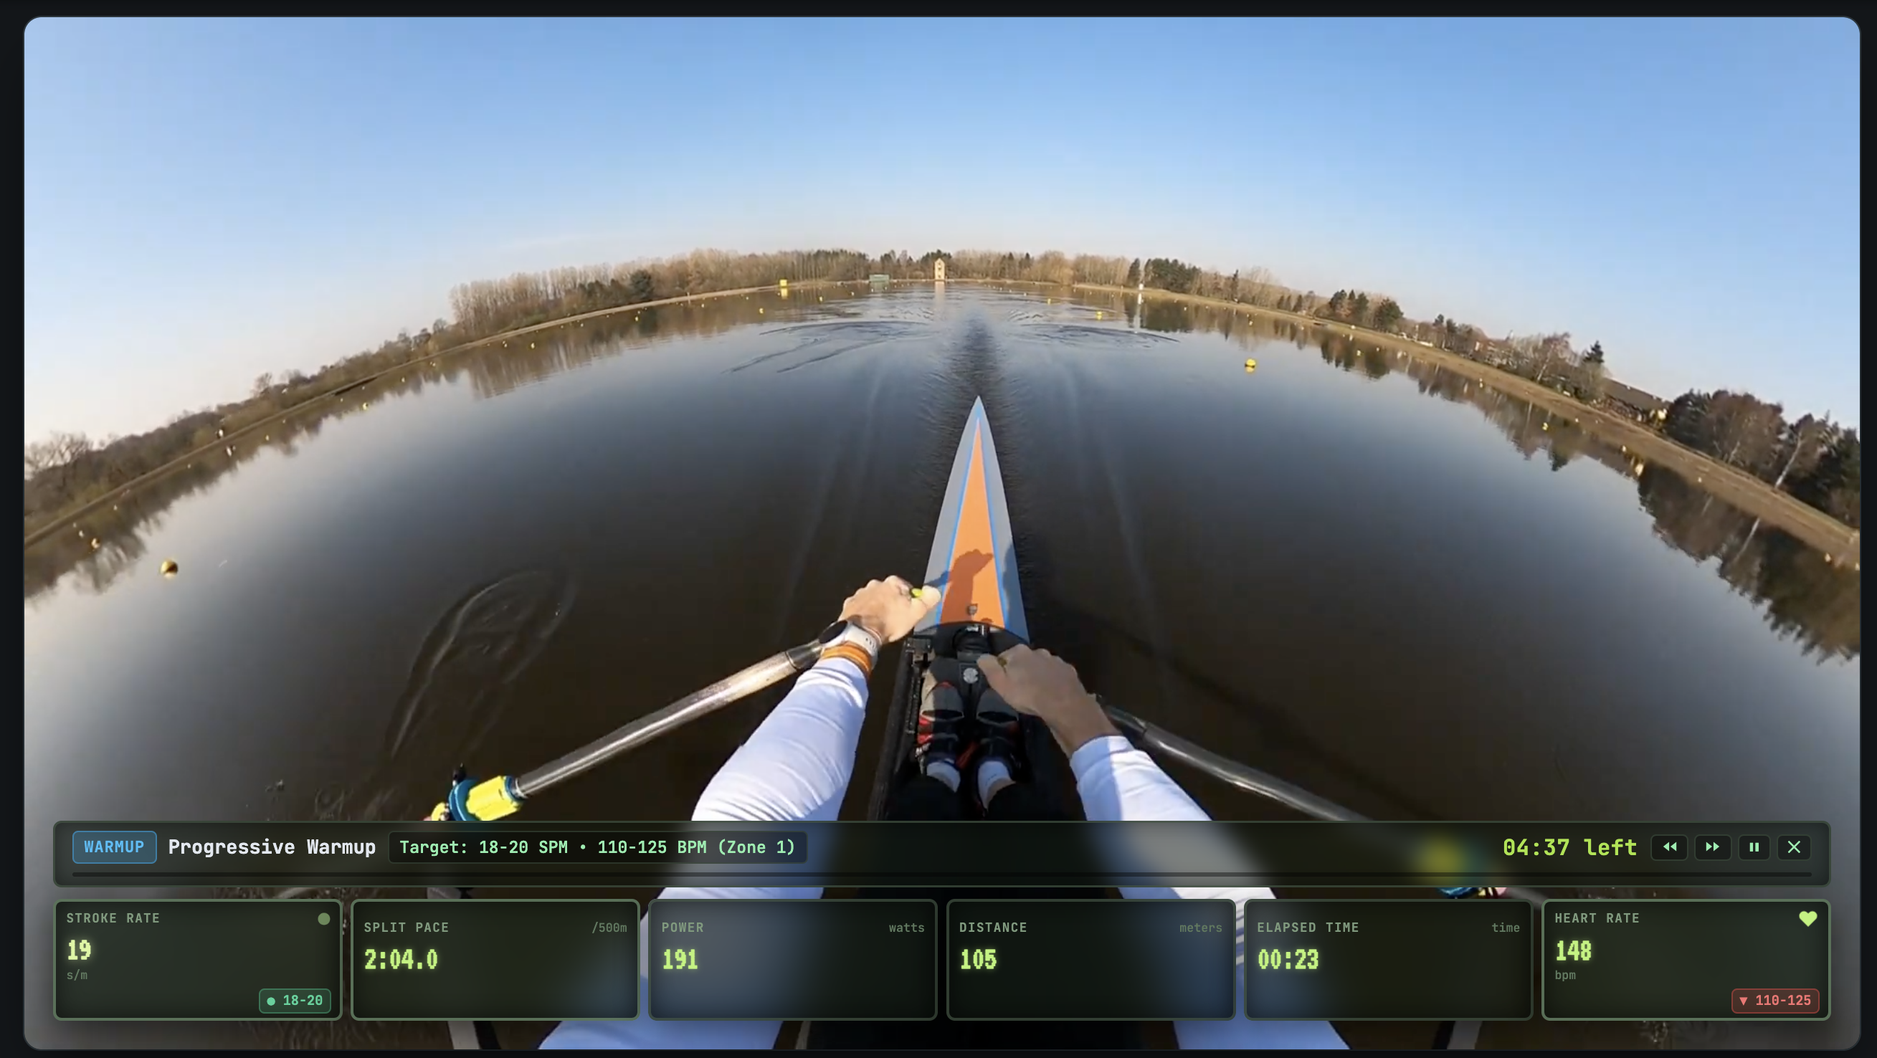
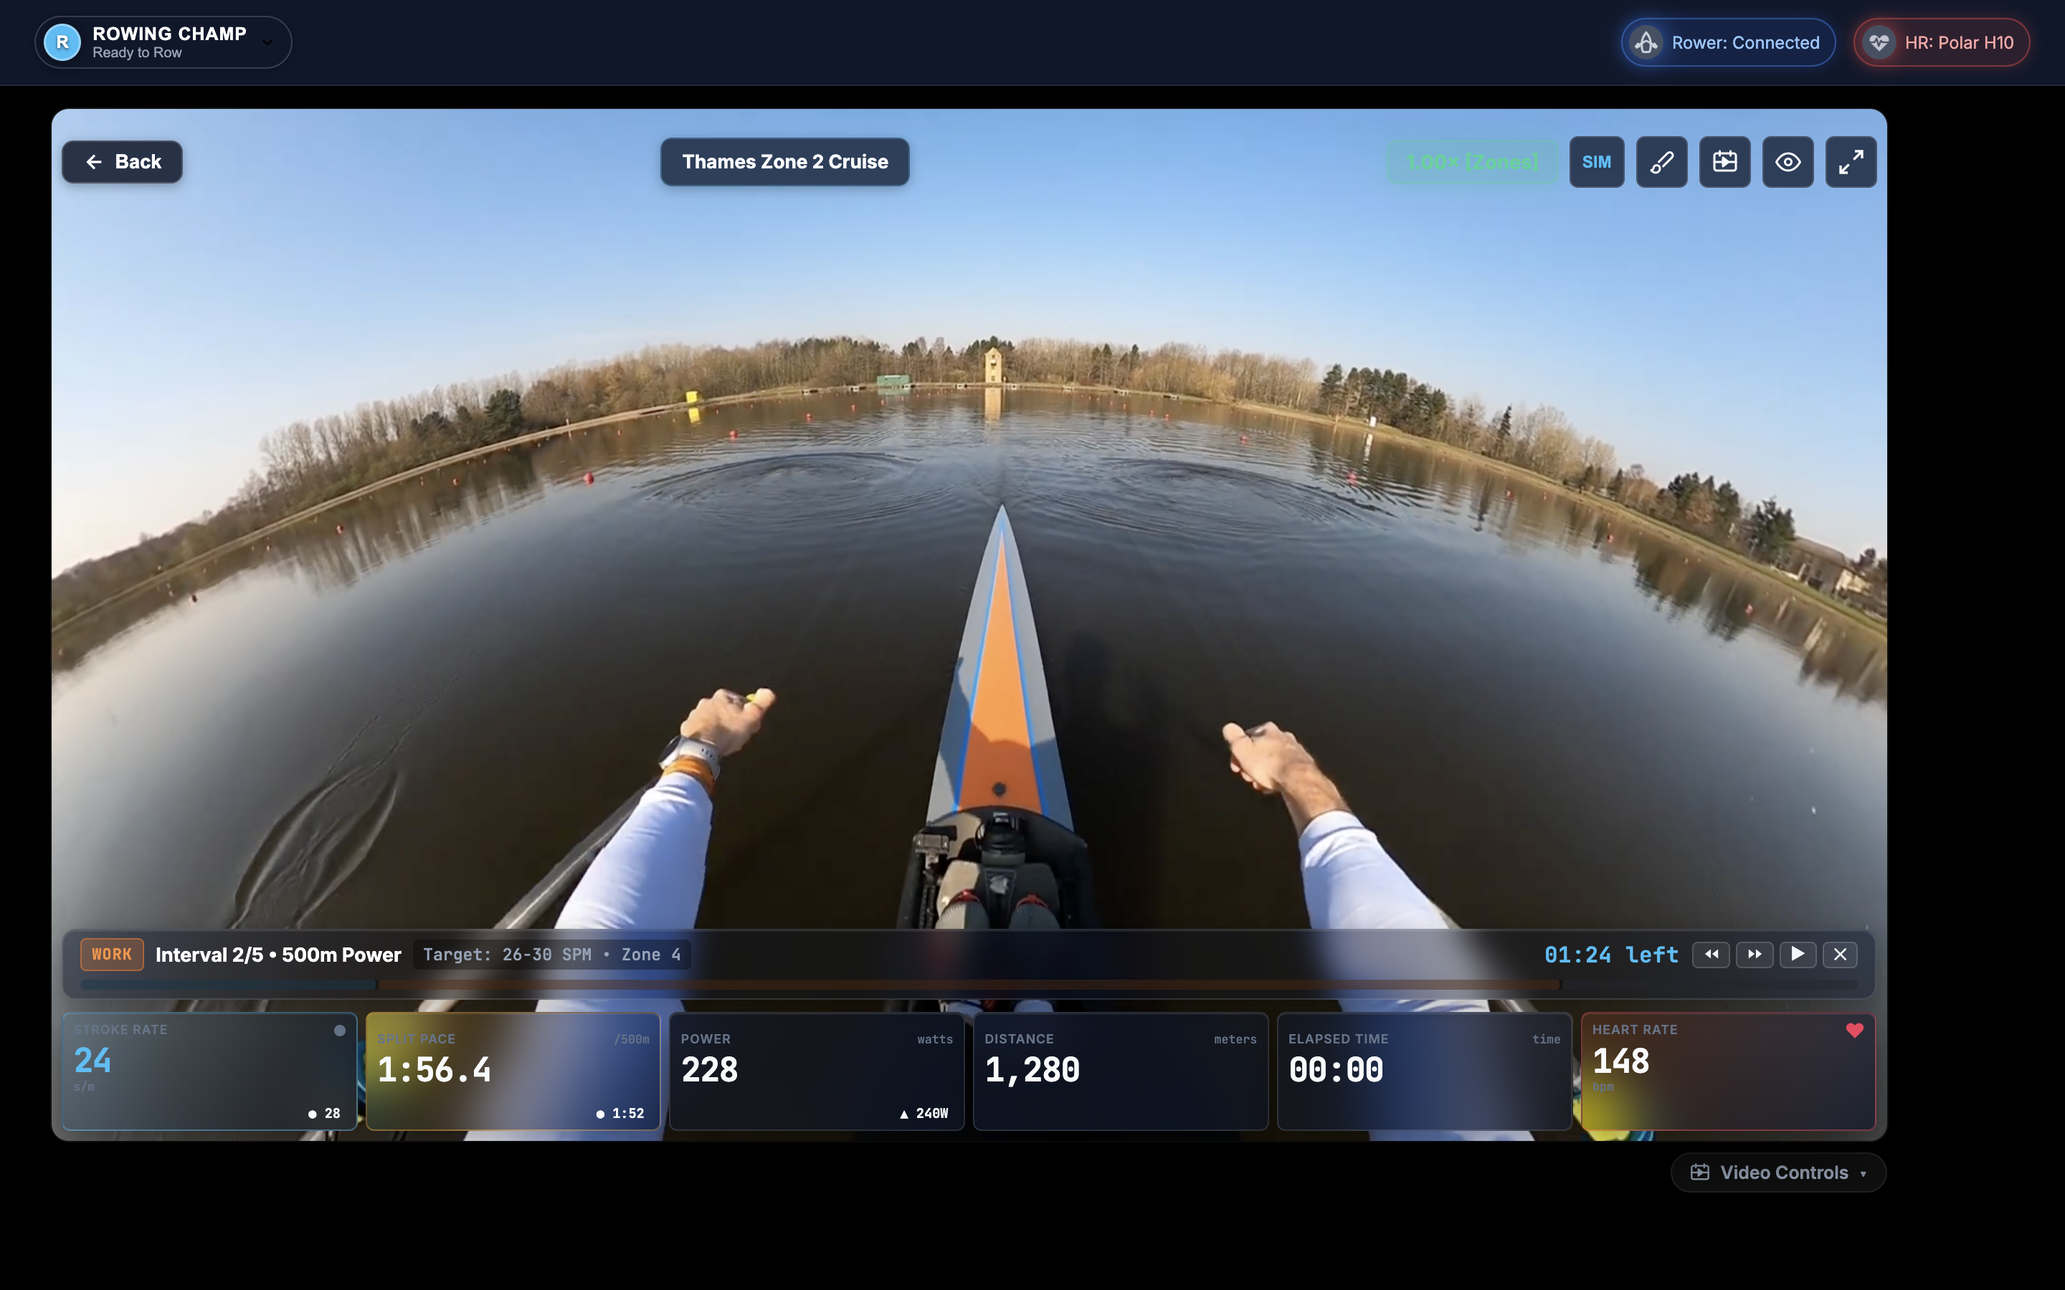
docs(readme): update screenshots for mobile-first ui overhaul, themes showcase, and responsive layouts

diff --git a/scripts/take_all_screenshots.py b/scripts/take_all_screenshots.py
@@ -1,0 +1,298 @@
+import asyncio
+import json
+import base64
+import os
+import httpx
+import websockets
+
+SCREENSHOT_DIR = "/Users/cfaber/repos/FTMS-rower/docs/screenshots"
+os.makedirs(SCREENSHOT_DIR, exist_ok=True)
+
+LIVE_COCKPIT_JS = """
+function applyLiveCockpitState(showWorkoutBar) {
+    // Hide all floating prompts and alerts
+    ['#audio-unmute-banner', '#hud-autopause-badge', '#workout-cue-toast', '.pm5-notice'].forEach(sel => {
+        document.querySelectorAll(sel).forEach(el => el.style.setProperty('display', 'none', 'important'));
+    });
+
+    // Populate realistic rowing telemetry
+    const spm = document.getElementById('hud-spm');
+    if (spm) spm.textContent = '24';
+    const split = document.getElementById('hud-split');
+    if (split) split.textContent = '1:56.4';
+    const watts = document.getElementById('hud-watts');
+    if (watts) watts.textContent = '228';
+    const dist = document.getElementById('hud-distance');
+    if (dist) dist.textContent = '1,280';
+    const time = document.getElementById('hud-elapsed');
+    if (time) time.textContent = '05:14';
+    const hr = document.getElementById('hud-hr');
+    if (hr) hr.textContent = '148';
+    
+    const hrPill = document.getElementById('hud-hr-zone-pill');
+    if (hrPill) hrPill.textContent = 'Z4 86%';
+    const hrBar = document.getElementById('hud-hr-zone-bar');
+    if (hrBar) hrBar.style.width = '86%';
+
+    // Activate connection badges with glowing pulse
+    const rBtn = document.getElementById('status-rower');
+    if (rBtn) {
+        rBtn.className = 'status-pill status-btn connected telemetry-pulse';
+        const rTxt = document.getElementById('status-rower-text');
+        if (rTxt) rTxt.textContent = 'Rower: Connected';
+    }
+    const hBtn = document.getElementById('status-hr');
+    if (hBtn) {
+        hBtn.className = 'status-pill status-btn connected telemetry-pulse';
+        const hTxt = document.getElementById('status-hr-text');
+        if (hTxt) hTxt.textContent = 'HR: Polar H10';
+    }
+
+    // Workout bar
+    const wb = document.getElementById('hud-workout-bar');
+    if (wb) {
+        wb.style.display = showWorkoutBar ? 'block' : 'none';
+        if (showWorkoutBar) {
+            const fill = document.getElementById('workout-progress-fill');
+            if (fill) fill.style.width = '42%';
+            const badge = document.getElementById('workout-step-badge');
+            if (badge) { badge.textContent = 'WORK'; badge.className = 'workout-type-badge work'; }
+            const title = document.getElementById('workout-step-title');
+            if (title) title.textContent = 'Interval 2/5 • 500m Power';
+            const summary = document.getElementById('workout-target-summary');
+            if (summary) summary.textContent = 'Target: 26-30 SPM • Zone 4';
+            const cd = document.getElementById('workout-step-countdown');
+            if (cd) cd.textContent = '01:24 left';
+
+            const tSpm = document.getElementById('hud-target-spm');
+            if (tSpm) { tSpm.style.display = 'inline-flex'; tSpm.textContent = '● 28'; tSpm.className = 'pm5-target-chip target-on'; }
+            const tWatts = document.getElementById('hud-target-watts');
+            if (tWatts) { tWatts.style.display = 'inline-flex'; tWatts.textContent = '▲ 240W'; tWatts.className = 'pm5-target-chip target-low'; }
+            const tSplit = document.getElementById('hud-target-split');
+            if (tSplit) { tSplit.style.display = 'inline-flex'; tSplit.textContent = '● 1:52'; tSplit.className = 'pm5-target-chip target-on'; }
+        } else {
+            // Hide targets in free row
+            ['#hud-target-spm', '#hud-target-watts', '#hud-target-split'].forEach(sel => {
+                const el = document.querySelector(sel);
+                if (el) el.style.display = 'none';
+            });
+        }
+    }
+}
+"""
+
+async def main():
+    async with httpx.AsyncClient() as client:
+        # Clean up any leftover localhost tabs
+        try:
+            tabs = (await client.get("http://127.0.0.1:9222/json/list")).json()
+            for t in tabs:
+                if "localhost:8000" in t.get("url", ""):
+                    await client.get(f"http://127.0.0.1:9222/json/close/{t['id']}")
+        except Exception as e:
+            print("Cleanup error:", e)
+
+        # Open ONE fresh tab
+        resp = await client.put("http://127.0.0.1:9222/json/new?http://localhost:8000")
+        target = resp.json()
+        target_id = target["id"]
+        ws_url = target["webSocketDebuggerUrl"]
+        print(f"Opened single tab {target_id}", flush=True)
+
+    try:
+        async with websockets.connect(ws_url, max_size=50_000_000) as ws:
+            msg_id = 1
+            async def send(method, params=None):
+                nonlocal msg_id
+                m_id = msg_id
+                msg_id += 1
+                await ws.send(json.dumps({"id": m_id, "method": method, "params": params or {}}))
+                while True:
+                    raw = await ws.recv()
+                    res = json.loads(raw)
+                    if res.get("id") == m_id:
+                        return res.get("result", {})
+
+            await send("Page.enable")
+            await send("Runtime.enable")
+            print("CDP connected, loading scripts...", flush=True)
+            await asyncio.sleep(2.5)
+
+            async def capture_to(filename):
+                ss = await send("Page.captureScreenshot", {"format": "png"})
+                img_data = base64.b64decode(ss["data"])
+                out_path = os.path.join(SCREENSHOT_DIR, filename)
+                with open(out_path, "wb") as f:
+                    f.write(img_data)
+                print(f"[OK] Saved {filename} ({len(img_data)} bytes)", flush=True)
+
+            # Inject helper
+            await send("Runtime.evaluate", {"expression": LIVE_COCKPIT_JS})
+
+            # ----------------------------------------------------
+            # 1. Athlete Home Page (Landscape)
+            # ----------------------------------------------------
+            print("Capturing 1. home-quick-workouts.png...", flush=True)
+            await send("Emulation.setDeviceMetricsOverride", {
+                "width": 1440, "height": 900, "deviceScaleFactor": 2, "mobile": False
+            })
+            await send("Runtime.evaluate", {
+                "expression": """
+                    document.documentElement.removeAttribute('data-theme');
+                    localStorage.setItem('ftms_hud_theme', 'default');
+                    const homeBtn = document.querySelector('[data-view="home"]');
+                    if (homeBtn) homeBtn.click();
+                    window.scrollTo(0, 0);
+                """
+            })
+            await asyncio.sleep(1.5)
+            await capture_to("home-quick-workouts.png")
+
+            # ----------------------------------------------------
+            # 2. Mobile Portrait Home Page
+            # ----------------------------------------------------
+            print("Capturing 2. mobile-portrait-home.png...", flush=True)
+            await send("Emulation.setDeviceMetricsOverride", {
+                "width": 390, "height": 844, "deviceScaleFactor": 2, "mobile": True
+            })
+            await send("Runtime.evaluate", {
+                "expression": "window.scrollTo(0, 0);"
+            })
+            await asyncio.sleep(1)
+            await capture_to("mobile-portrait-home.png")
+
+            # ----------------------------------------------------
+            # 3. Mobile Portrait Cockpit HUD (2x3 Grid with Live Row)
+            # ----------------------------------------------------
+            print("Capturing 3. mobile-portrait-cockpit.png...", flush=True)
+            await send("Runtime.evaluate", {
+                "expression": """
+                    const quickCard = document.querySelector(".btn-start-quick-card");
+                    if (quickCard) quickCard.click();
+                """
+            })
+            await asyncio.sleep(2.5)
+            await send("Runtime.evaluate", {
+                "expression": "applyLiveCockpitState(true);"
+            })
+            await asyncio.sleep(1)
+            await capture_to("mobile-portrait-cockpit.png")
+
+            # ----------------------------------------------------
+            # 4. Cockpit HUD - Modern Slate (Landscape Hero)
+            # ----------------------------------------------------
+            print("Capturing 4. cockpit-modern-slate.png (Landscape Hero)...", flush=True)
+            await send("Emulation.setDeviceMetricsOverride", {
+                "width": 1440, "height": 900, "deviceScaleFactor": 2, "mobile": False
+            })
+            await send("Runtime.evaluate", {
+                "expression": """
+                    document.documentElement.removeAttribute('data-theme');
+                    localStorage.setItem('ftms_hud_theme', 'default');
+                    applyLiveCockpitState(false);
+                """
+            })
+            await asyncio.sleep(1.5)
+            await capture_to("cockpit-modern-slate.png")
+
+            # ----------------------------------------------------
+            # 5. Cockpit HUD - Structured Program Workout Bar
+            # ----------------------------------------------------
+            print("Capturing 5. cockpit-workout-bar.png...", flush=True)
+            await send("Runtime.evaluate", {
+                "expression": "applyLiveCockpitState(true);"
+            })
+            await asyncio.sleep(1.5)
+            await capture_to("cockpit-workout-bar.png")
+
+            # ----------------------------------------------------
+            # 6. Themes Showcase in Cockpit
+            # ----------------------------------------------------
+            # (a) Nordic Minimalist
+            print("Capturing 6a. cockpit-nordic-minimalist.png...", flush=True)
+            await send("Runtime.evaluate", {
+                "expression": """
+                    document.documentElement.setAttribute('data-theme', 'nordic');
+                    localStorage.setItem('ftms_hud_theme', 'nordic');
+                    applyLiveCockpitState(true);
+                """
+            })
+            await asyncio.sleep(1.5)
+            await capture_to("cockpit-nordic-minimalist.png")
+
+            # (b) Neon Cyberpunk
+            print("Capturing 6b. cockpit-neon-cyberpunk.png...", flush=True)
+            await send("Runtime.evaluate", {
+                "expression": """
+                    document.documentElement.setAttribute('data-theme', 'cyberpunk');
+                    localStorage.setItem('ftms_hud_theme', 'cyberpunk');
+                    applyLiveCockpitState(true);
+                """
+            })
+            await asyncio.sleep(1.5)
+            await capture_to("cockpit-neon-cyberpunk.png")
+
+            # (c) Concept2 PM5 LCD
+            print("Capturing 6c. cockpit-concept2-pm5.png...", flush=True)
+            await send("Runtime.evaluate", {
+                "expression": """
+                    document.documentElement.setAttribute('data-theme', 'retro-pm5');
+                    localStorage.setItem('ftms_hud_theme', 'retro-pm5');
+                    applyLiveCockpitState(true);
+                """
+            })
+            await asyncio.sleep(1.5)
+            await capture_to("cockpit-concept2-pm5.png")
+
+            # Reset theme to default slate & pause video before leaving cockpit
+            await send("Runtime.evaluate", {
+                "expression": """
+                    document.documentElement.removeAttribute('data-theme');
+                    localStorage.setItem('ftms_hud_theme', 'default');
+                    const videoEl = document.getElementById("scenic-video");
+                    if (videoEl) videoEl.pause();
+                """
+            })
+            await asyncio.sleep(1)
+
+            # ----------------------------------------------------
+            # 7. Programs Library
+            # ----------------------------------------------------
+            print("Capturing 7. programs-library.png...", flush=True)
+            await send("Runtime.evaluate", {
+                "expression": """
+                    const progBtn = document.querySelector('[data-view="workouts"]');
+                    if (progBtn) progBtn.click();
+                    window.scrollTo(0, 0);
+                """
+            })
+            await asyncio.sleep(2)
+            await capture_to("programs-library.png")
+
+            # ----------------------------------------------------
+            # 8. Media Center & Tracks
+            # ----------------------------------------------------
+            print("Capturing 8. media-center-tracks.png...", flush=True)
+            await send("Runtime.evaluate", {
+                "expression": """
+                    const mediaBtn = document.querySelector('[data-view="media"]');
+                    if (mediaBtn) mediaBtn.click();
+                    window.scrollTo(0, 0);
+                """
+            })
+            await asyncio.sleep(2)
+            await capture_to("media-center-tracks.png")
+
+            print("All captures completed successfully!", flush=True)
+
+    finally:
+        # Close tab immediately to free resources
+        print("Closing tab and releasing resources...", flush=True)
+        async with httpx.AsyncClient() as client:
+            try:
+                await client.get(f"http://127.0.0.1:9222/json/close/{target_id}")
+                print(f"Tab {target_id} closed successfully.", flush=True)
+            except Exception as e:
+                print("Error closing tab:", e)
+
+asyncio.run(main())

diff --git a/README.md b/README.md
@@ -20,8 +20,8 @@
 FTMS-Rower transforms indoor rowing into an immersive outdoor experience. As you row, your stroke cadence dynamically modulates video playback speed ($0.3\times \dots 2.5\times$), while soundtrack audio remains crystal-clear and locked at a steady $1.0\times$. Forked and reimagined from [manuelkamp/FTMS-rower](https://github.com/manuelkamp/FTMS-rower).
 
 <p align="center">
-  <img src="docs/screenshots/cockpit-nordic-minimalist.png" alt="FTMS-Rower Cockpit HUD (Nordic Minimalist Theme)" width="100%">
-  <em>Scenic Cockpit in Nordic Minimalist theme (translucent frosted glass) with real-time PM5 telemetry HUD, Lake Louise route, decoupled audio, and transport controls.</em>
+  <img src="docs/screenshots/cockpit-modern-slate.png" alt="FTMS-Rower Cockpit HUD (Modern Slate Theme)" width="100%">
+  <em>Scenic Cockpit in default Modern Slate theme with real-time PM5 telemetry HUD, live Bluetooth rower and heart rate connectivity indicators, Thames River route, and decoupled 1.0× soundtrack audio.</em>
 </p>
 
 ---
@@ -109,14 +109,31 @@ FTMS-Rower transforms indoor rowing into an immersive outdoor experience. As you
   - **Concept2 PM5 LCD:** Matte bezel with authentic phosphorescent green LCD styling.
 
 <p align="center">
-  <img src="docs/screenshots/cockpit-neon-cyberpunk.png" alt="Neon Cyberpunk HUD Theme" width="49%">
-  <img src="docs/screenshots/cockpit-modern-slate.png" alt="Modern Slate HUD Theme" width="49%">
+  <img src="docs/screenshots/cockpit-modern-slate.png" alt="Modern Slate HUD Theme (Default)" width="49%">
+  <img src="docs/screenshots/cockpit-nordic-minimalist.png" alt="Nordic Minimalist HUD Theme" width="49%">
 </p>
 <p align="center">
-  <em>Left: Neon Cyberpunk theme on ambient route. Right: Modern Slate (default dark theme) during a high-cadence sprint.</em>
+  <img src="docs/screenshots/cockpit-neon-cyberpunk.png" alt="Neon Cyberpunk HUD Theme" width="49%">
+  <img src="docs/screenshots/cockpit-concept2-pm5.png" alt="Concept2 PM5 LCD HUD Theme" width="49%">
+</p>
+<p align="center">
+  <em>Four visual themes: Top-left: Modern Slate (default dark glass). Top-right: Nordic Minimalist (frosted glass & gold). Bottom-left: Neon Cyberpunk (OLED dark & laser cyan/magenta). Bottom-right: Concept2 PM5 (authentic phosphorescent green LCD).</em>
 </p>
 
-### 6. ⏱ Structured Training Programs & Real-Time Interval Pacing
+### 6. 📱 Responsive Layouts: Tablet Landscape vs. Mobile Portrait
+- **Fluid Multi-Form Factor Engine:** Built from the ground up to feel like a native mobile app on phones and tablets while delivering a cinematic widescreen experience on desktops and smart TVs.
+- **Landscape Mode:** Expansive widescreen layout featuring edge-to-edge scenic video, floating PM5 telemetry cards with full parameter labels, docked transport bar, and optional full-width interval progress ribbon.
+- **Portrait / Mobile Mode:** Streamlined vertical dashboard tailored for smartphone row holders. Telemetry automatically condenses into high-contrast readable tiles, top bar displays compact circular badges (paddle and heart) with pulsating telemetry activity, and bottom tab navigation allows single-thumb switching between Home, Cockpit, Media, Programs, and Profile.
+
+<p align="center">
+  <img src="docs/screenshots/home-quick-workouts.png" alt="Athlete Home Dashboard - Landscape Mode" width="62%">
+  <img src="docs/screenshots/mobile-portrait-home.png" alt="Athlete Home Dashboard - Mobile Portrait Mode" width="35%">
+</p>
+<p align="center">
+  <em>Athlete Home experience: Left: Landscape view featuring athlete profile greeting, connected gear badges, and Quick Workout cards. Right: Mobile portrait view optimized for single-thumb smartphone navigation.</em>
+</p>
+
+### 7. ⏱ Structured Training Programs & Real-Time Interval Pacing
 - **Curated Program Library:** Preloaded routines designed for diverse training goals:
   - *Endurance & Aerobic Base:* 30-Minute Zone 2 Aerobic Base, 4 × 1000m Aerobic Threshold, 5K Negative Split & Rate Ladder.
   - *Intervals & HIIT:* 5 × 500m Power Intervals, Tabata Rowing Sprints (8 cycles of 20s work / 10s rest).
@@ -149,10 +166,10 @@ FTMS-Rower transforms indoor rowing into an immersive outdoor experience. As you
   <img src="docs/screenshots/cockpit-workout-bar.png" alt="Cockpit HUD with Docked Workout Interval Ribbon" width="100%">
 </p>
 <p align="center">
-  <em>Cockpit HUD during an active structured workout: Docked interval ribbon with step countdown, GPU-composited progress bar, real-time target compliance chips (SPM and HR), and Concept2 PM5 theme.</em>
+  <em>Cockpit HUD during an active structured workout: Docked interval ribbon with step countdown, GPU-composited progress bar, real-time target compliance chips (SPM and HR), and default Modern Slate theme.</em>
 </p>
 
-### 7. 🔌 Dual-Source Telemetry & Virtual Simulator
+### 8. 🔌 Dual-Source Telemetry & Virtual Simulator
 - **Web Bluetooth FTMS:** Direct connection to FTMS rowers (`0x2AD1`) including Merach Q1S, Concept2 PM5, WaterRower ComModule, and standard BLE Heart Rate monitors (`0x180D`).
 - **Dynamic Workout Simulator:** Built-in simulator featuring:
   - **Dynamic Program:** Automatically cycles through Warmup, Surge, Sprint, Paddle Down, Rest (testing auto-pause), and Recovery.
@@ -161,7 +178,7 @@ FTMS-Rower transforms indoor rowing into an immersive outdoor experience. As you
   - **Manual Slider:** Fine-tune target SPM ($14 \dots 38$) with live split and watt calculations.
   - **Instant Pause / Resume:** Test boat glide decay and auto-pause behavior instantly.
 
-### 8. 💾 Session History & Multi-Lap TCX Export (Garmin & Strava)
+### 9. 💾 Session History & Multi-Lap TCX Export (Garmin & Strava)
 - **Local Persistence:** Workouts and per-second trackpoint telemetry are stored locally in SQLite (`data/sessions.db`).
 - **Interval-by-Interval Lap Breakdown:** Structured program sessions record discrete `<Lap>` blocks with `Active`/`Resting` intensity classifications, average watts (`<LX><AvgWatts>`), cadence, and heart rate for automatic interval breakdown in Garmin Connect and Strava Workout Analysis.
 - **Batch Export & Management:** Export workouts individually or in bulk (`.zip`) to standard **Garmin Training Center XML (`.TCX`)** format, with multi-session selection and batch deletion.
